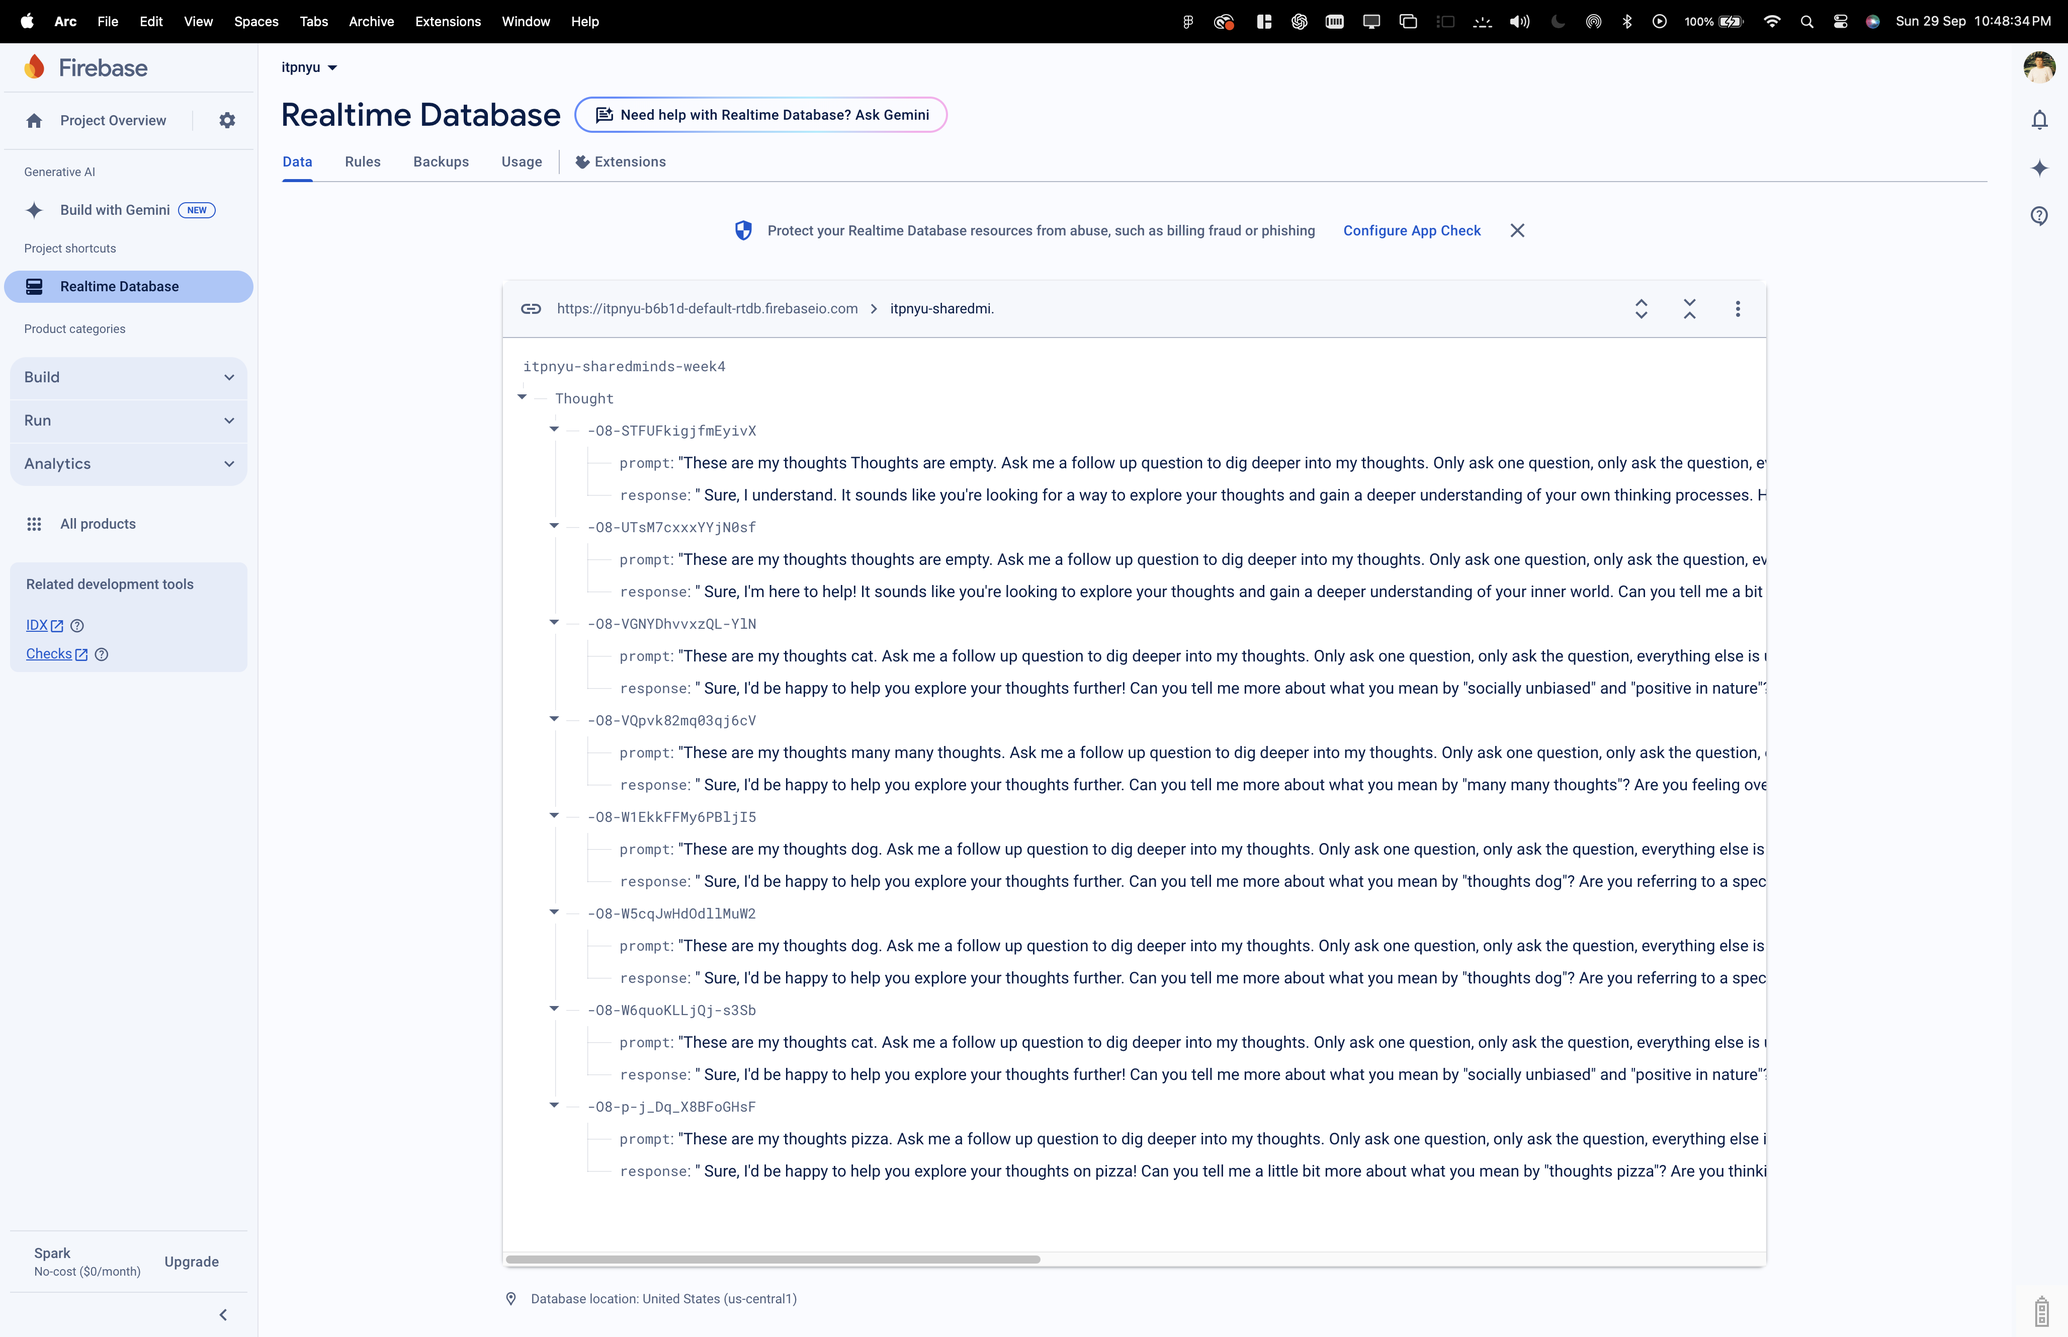
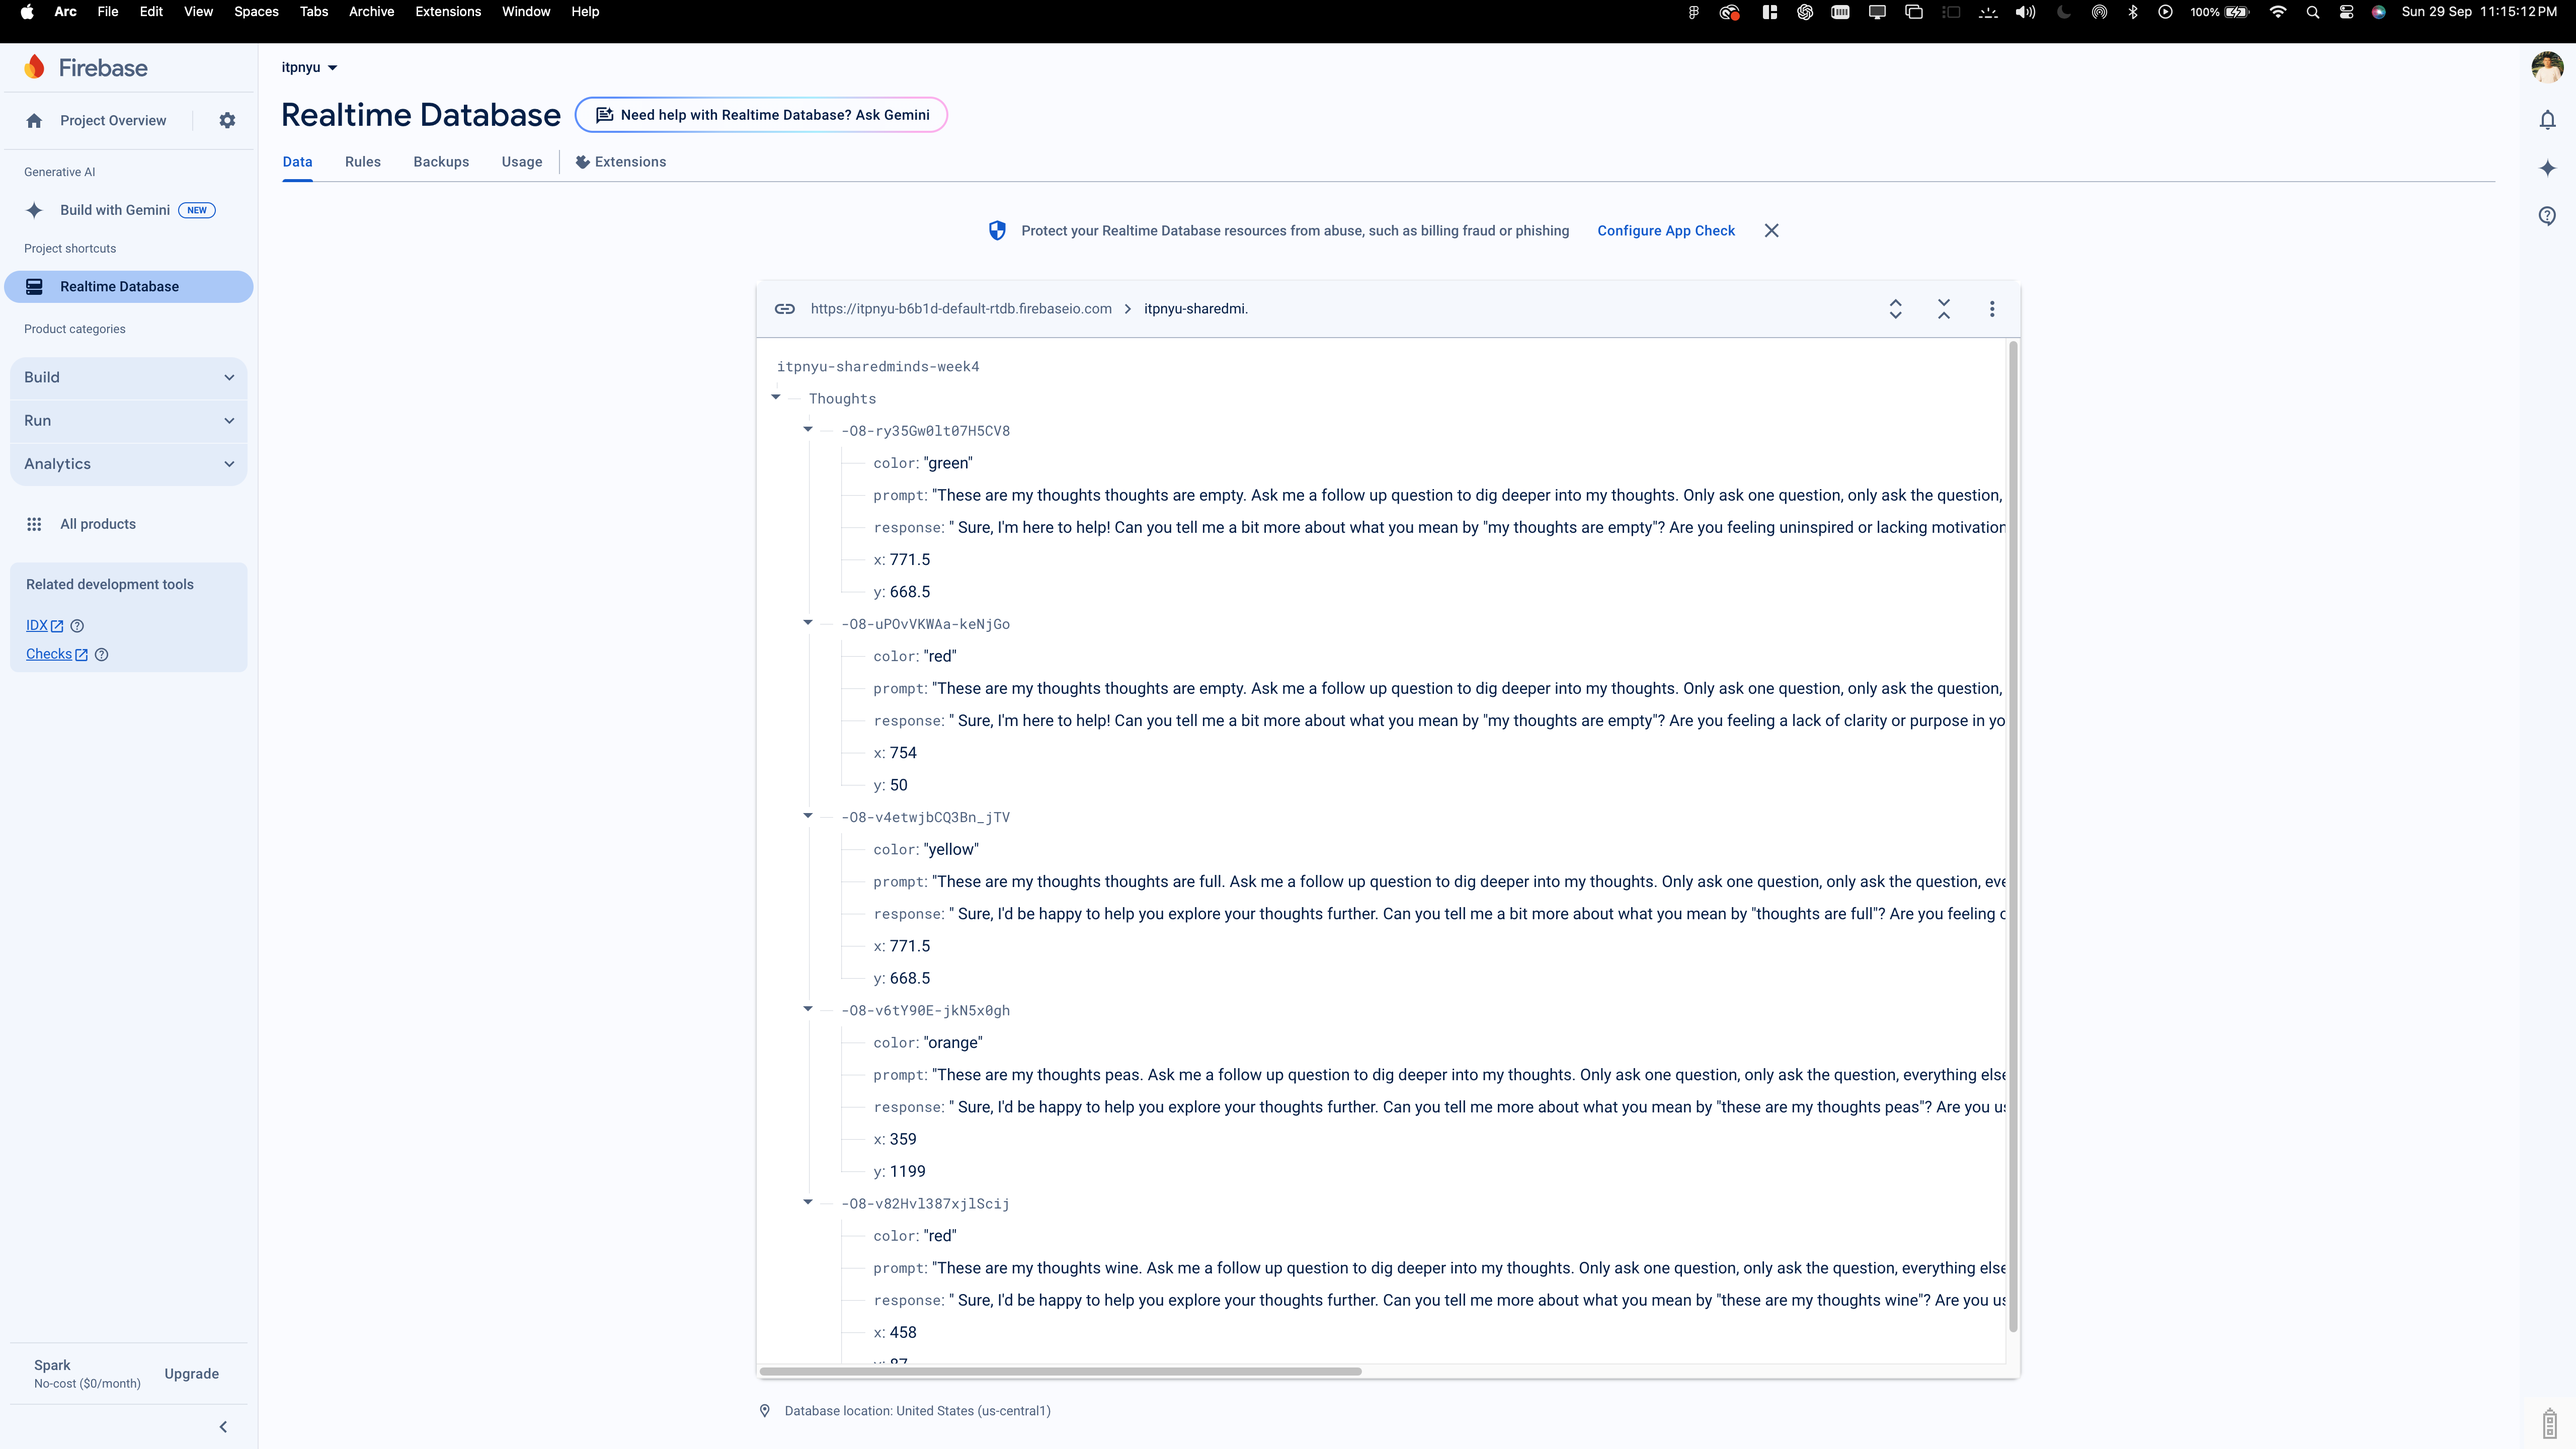
week4-update

diff --git a/week4/week4.js b/week4/week4.js
@@ -13,7 +13,7 @@ import {
   onChildChanged,
   onChildRemoved,
 } from "https://www.gstatic.com/firebasejs/10.4.0/firebase-database.js"
-import { firebaseConfig } from "./firebaseConfig.js";
+import { firebaseConfig } from "./firebaseConfig.js"
 
 let myName = null
 let myKey = null
@@ -60,16 +60,20 @@ function initFirebase() {
   })
 }
 
+// function setInFirebase(folder, data) {
+//   //firebase will supply the key, this will trigger "onChildAdded" below
+//   if (myKey) {
+//     const dbRef = ref(db, appName + "/" + folder + "/" + myKey)
+//     update(dbRef, data)
+//   } else {
+//     //if it doesn't exist, it adds (pushes) and collect the key for later updates
+//     const dbRef = ref(db, appName + "/" + folder + "/")
+//     myKey = push(dbRef, data).key
+//   }
+// }
 function setInFirebase(folder, data) {
-  //firebase will supply the key, this will trigger "onChildAdded" below
-  if (myKey) {
-    const dbRef = ref(db, appName + "/" + folder + "/" + myKey)
-    update(dbRef, data)
-  } else {
-    //if it doesn't exist, it adds (pushes) and collect the key for later updates
-    const dbRef = ref(db, appName + "/" + folder + "/")
-    myKey = push(dbRef, data).key
-  }
+  const dbRef = ref(db, appName + "/" + folder + "/")
+  push(dbRef, data) // Always create a new entry
 }
 
 function saveTextObjectToFirebase(textElement, thought) {
